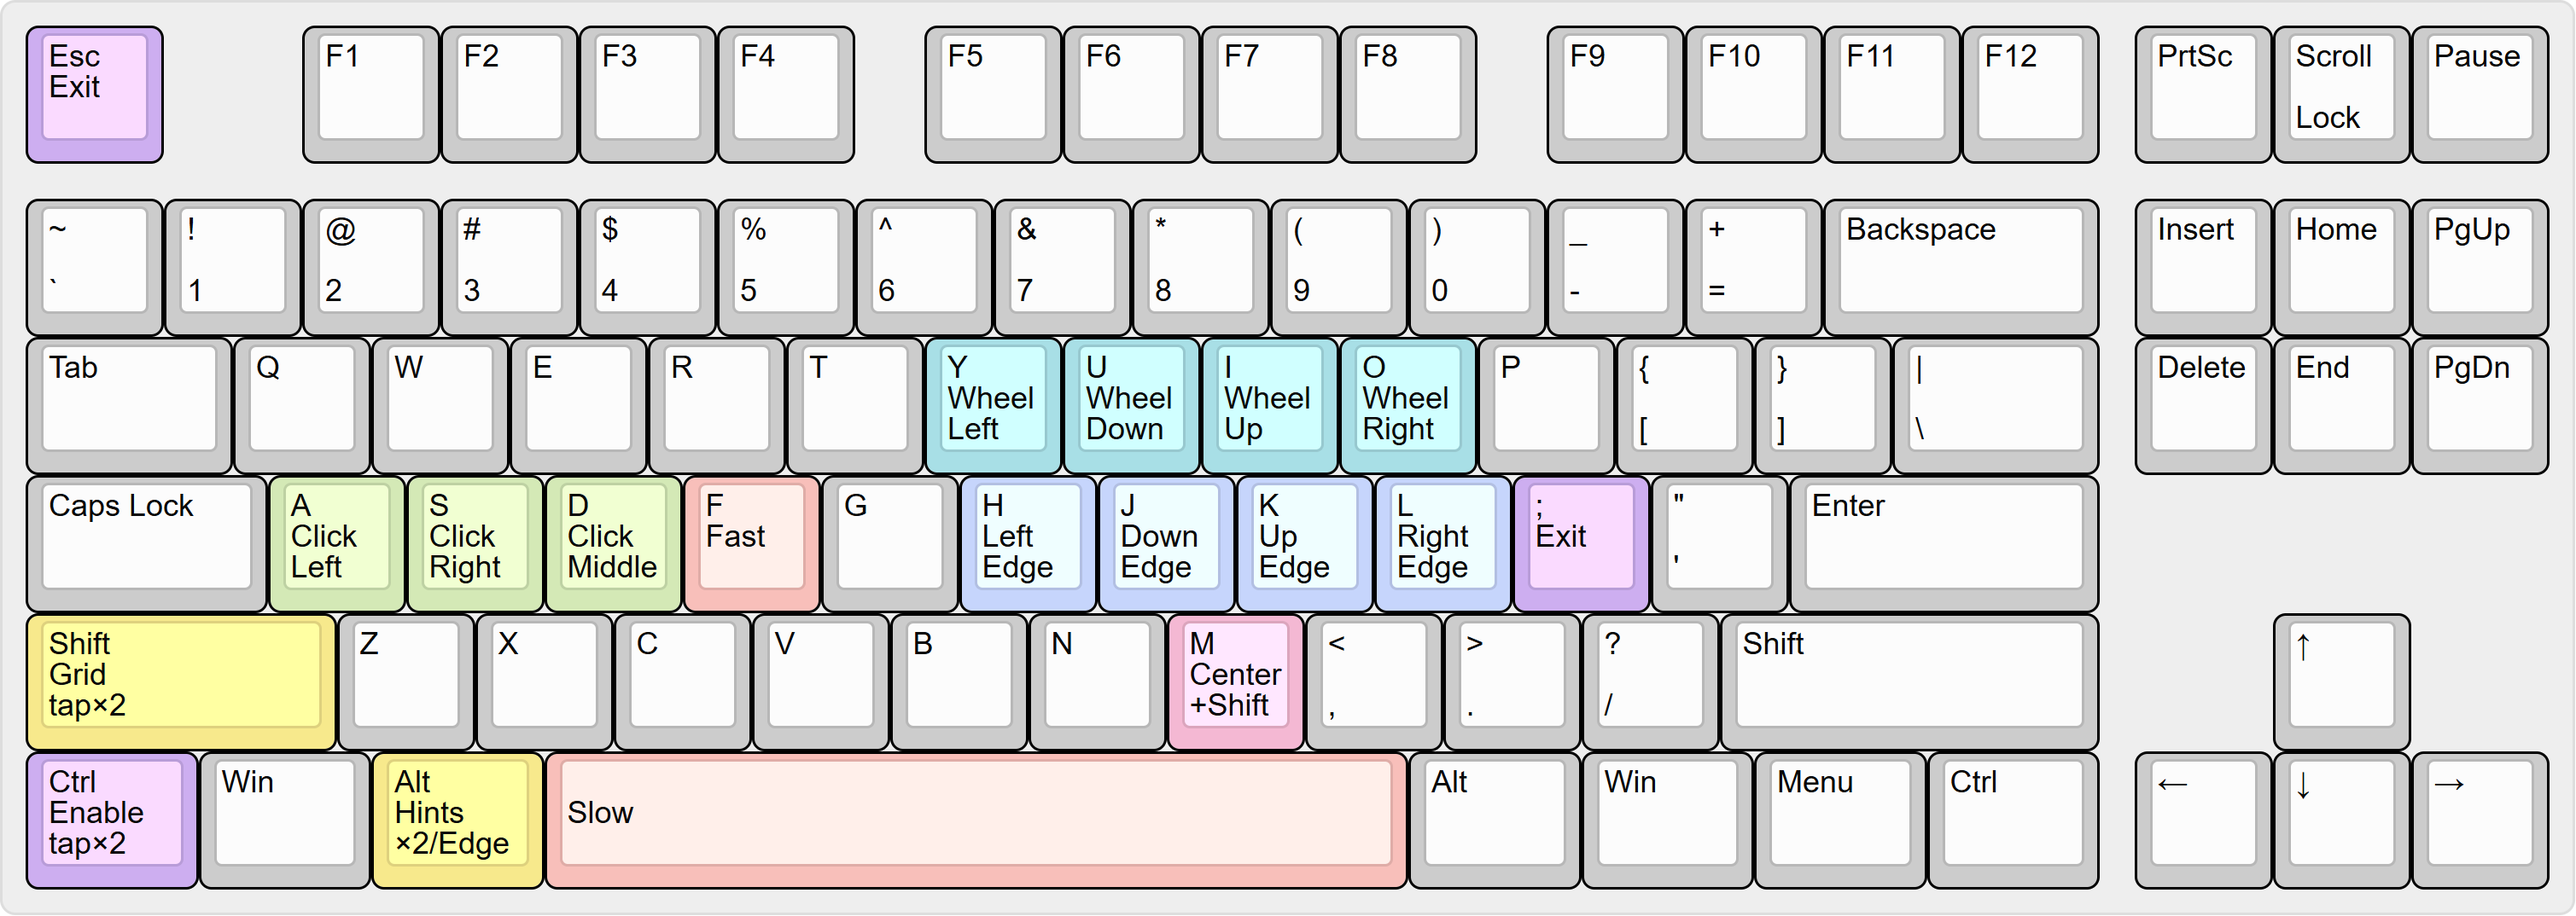
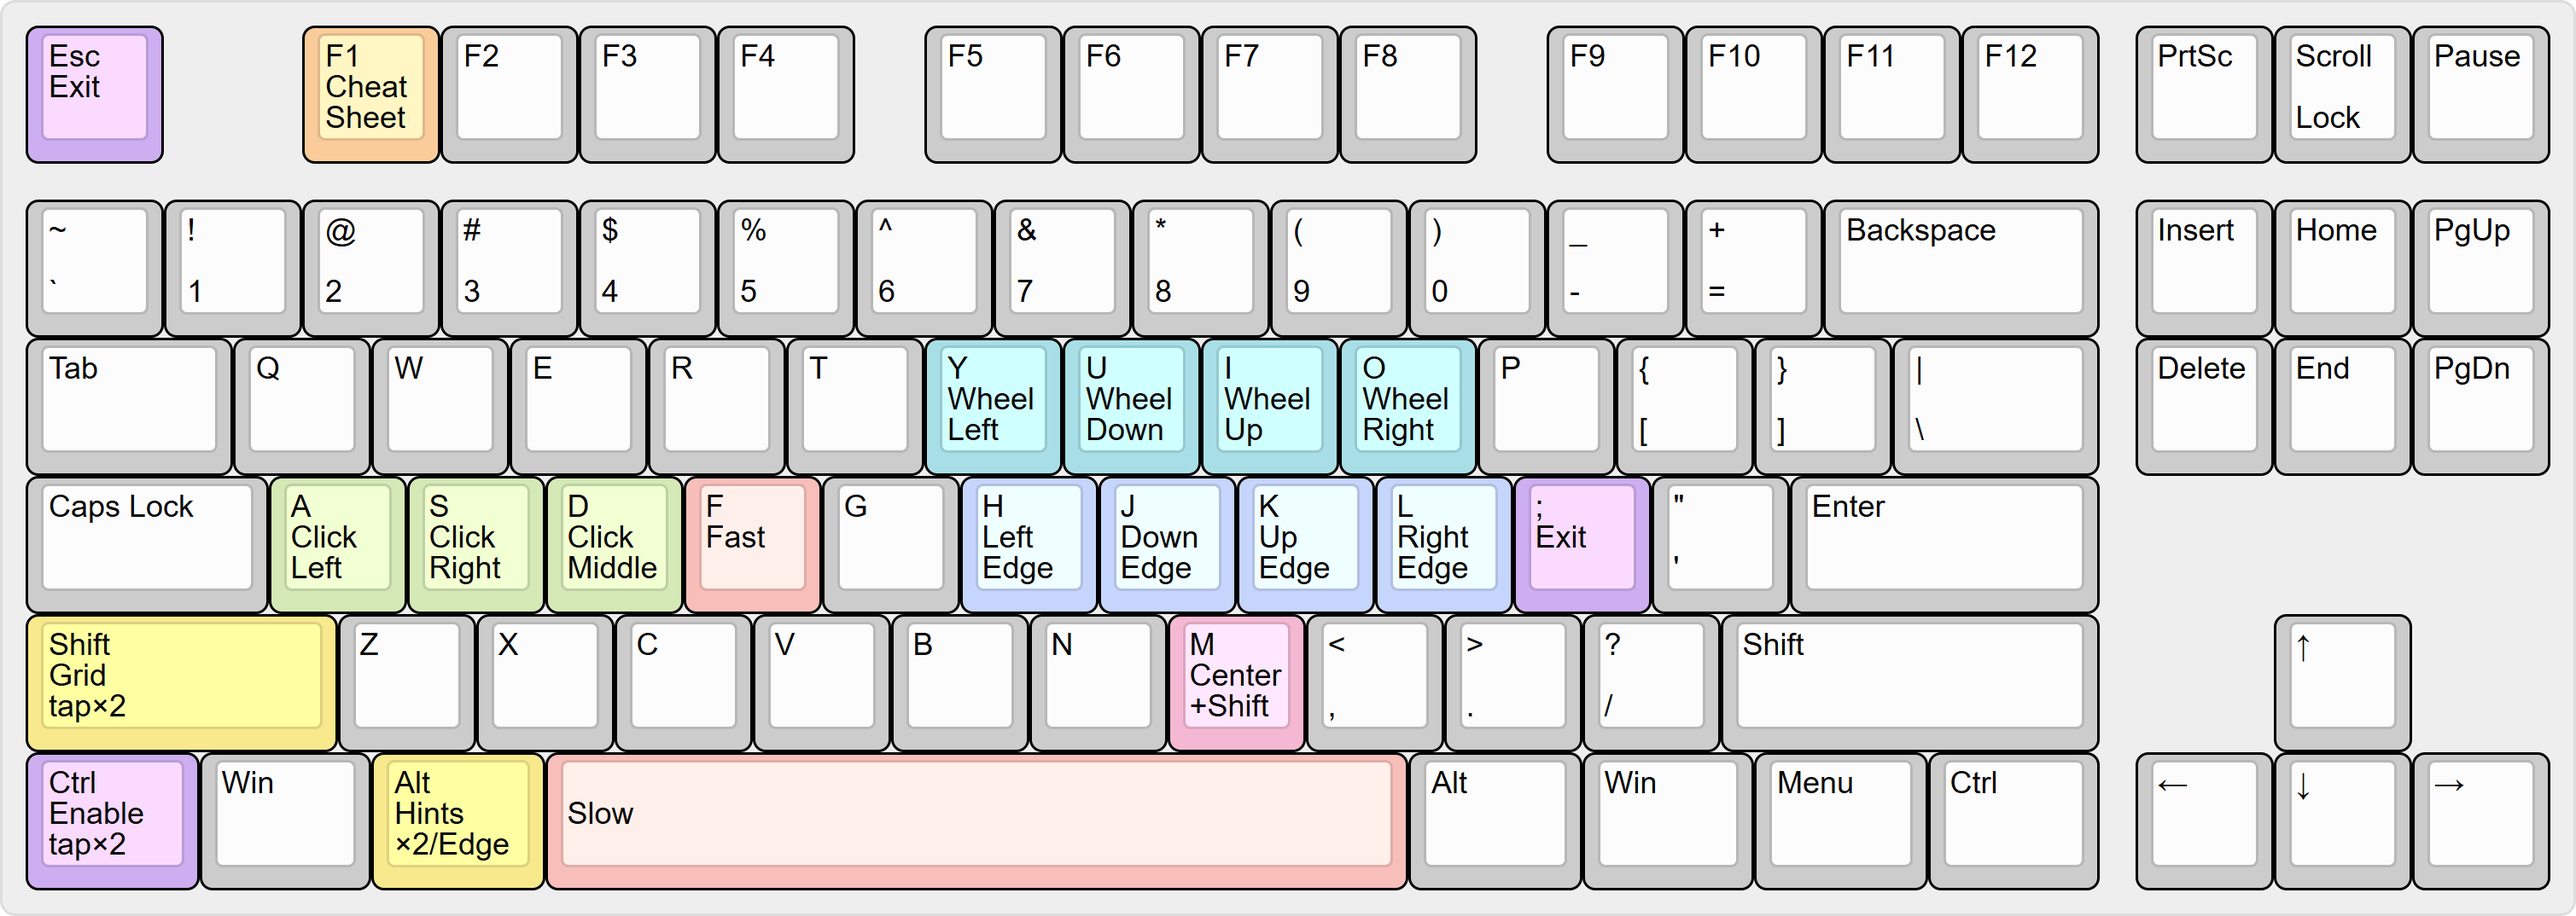
Show a cheatsheet in neo-mousekeys-wasd mouseable warpd and neru

diff --git a/docs/mouseable.md b/docs/mouseable.md
@@ -24,6 +24,7 @@ The layout above shows normal mode ([mouseable-keyboardlayouteditor.json](assets
 - Scroll vertically or horizontally (wheel) with _y_, _u_, _i_, _o_.
 - Slow down mouse movement by holding _space_ while moving the mouse (slow mode, called sniper mode in original mouseable).
 - Accelerate mouse movement by holding _f_ while moving the mouse.
+- Show a cheatsheet of the keys while holding _f1_.
 - Exit with _;_ or _esc_.
 
 ## Hint Mode (_leftalt, leftalt_)

diff --git a/docs/neru.md b/docs/neru.md
@@ -29,6 +29,7 @@ From idle — or to switch between modes — hold **Ctrl+Shift** and press:
 - **Move** the cursor: hold the **arrow keys** (speeds up while held).
 - **Click**: `Shift+L` left, `Shift+R` right, `Shift+M` middle.
 - **Drag**: hold `Shift+L` while moving — or `Shift+I` to press the left button and `Shift+U` to release it.
+- **Cheatsheet**: hold `F1` to show the keys.
 
 Clicks use Shift so they don't clash with the keys used to pick hints.
 

diff --git a/docs/warpd.md b/docs/warpd.md
@@ -25,6 +25,7 @@ The layout above shows normal mode ([warpd-keyboardlayouteditor.json](assets/war
 - Slow down mouse movement (decelerate) by holding _d_ while moving the mouse.
 - Accelerate mouse movement by holding _a_ while moving the mouse.
 - Copy and exit with _c_.
+- Show a cheatsheet of the keys while holding _f1_.
 - Exit with _esc_.
 
 ## Hint Mode (_leftalt + x_ or _x_ in normal mode)

diff --git a/docs/neo-mousekeys-wasd.md b/docs/neo-mousekeys-wasd.md
@@ -23,6 +23,7 @@
 - Super slow down mouse and scroll movement by holding _capslock_ while moving.
 - Accelerate mouse movement by holding _u_, _v_ or _b_ while moving.
 - Accelerate scroll movement by holding _u_, _v_ or _b_ while scrolling.
+- Show a cheatsheet of the keys while holding _t_.
 
 ## Key remappings
 - Press _leftalt + ijkl_ to simulate the arrow keys.
